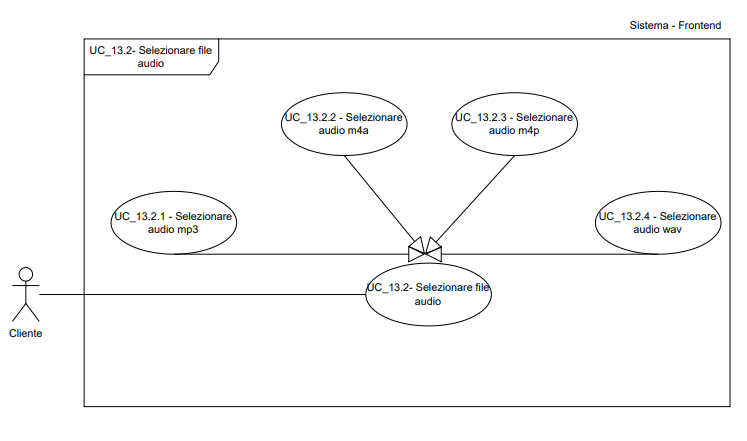
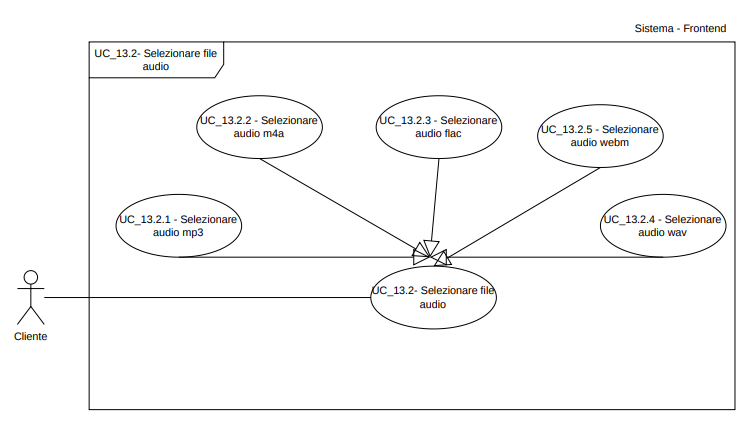
Pull Request Automatica - feature/analisi-requisiti → main (#299)
* Fix

* Fix

* Rimozione file

---------

diff --git a/src/PB/Documenti Esterni/Analisi dei Requisiti/content/uc/UC_13.tex b/src/PB/Documenti Esterni/Analisi dei Requisiti/content/uc/UC_13.tex
@@ -146,7 +146,7 @@ L'UC\_13.2 ha 4 ulteriori specializzazioni come mostrate in figura
         \end{itemize}
 \end{itemize}
 
-\subsubsubsubsection{UC\_13.2.3: Selezionare audio m4p}
+\subsubsubsubsection{UC\_13.2.3: Selezionare audio flac}
 \label{uc_13.2.3}
 
 \begin{itemize}
@@ -154,16 +154,16 @@ L'UC\_13.2 ha 4 ulteriori specializzazioni come mostrate in figura
     \item \textbf{Scenario principale}:
         \begin{enumerate}
             \item Il Cliente ha premuto il pulsante per selezionare un file dal dispositivo
-            \item Il Cliente seleziona un file con estensione .m4p
+            \item Il Cliente seleziona un file con estensione .flac
         \end{enumerate}
     \item \textbf{Precondizioni}:
         \begin{itemize}
-            \item Il formato .m4p è supportato dal sistema
+            \item Il formato .flac è supportato dal sistema
             \item Il Cliente si trova nella sezione di inserimento ordine tramite file
         \end{itemize}
     \item \textbf{Postcondizioni}: 
         \begin{itemize}
-            \item Il file .m4p è stato correttamente selezionato e caricato nel sistema
+            \item Il file .flac è stato correttamente selezionato e caricato nel sistema
         \end{itemize}
 \end{itemize}
 
@@ -186,4 +186,25 @@ L'UC\_13.2 ha 4 ulteriori specializzazioni come mostrate in figura
         \begin{itemize}
             \item Il file .wav è stato correttamente selezionato e caricato nel sistema
         \end{itemize}
+\end{itemize}
+
+\subsubsubsubsection{UC\_13.2.5: Selezionare audio webm}
+\label{uc_13.2.5}
+
+\begin{itemize}
+	\item \textbf{Attore$^G$ Principale}: Cliente
+	\item \textbf{Scenario principale}:
+	\begin{enumerate}
+		\item Il Cliente ha premuto il pulsante per selezionare un file dal dispositivo
+		\item Il Cliente seleziona un file con estensione .webm
+	\end{enumerate}
+	\item \textbf{Precondizioni}:
+	\begin{itemize}
+		\item Il formato .webm è supportato dal sistema
+		\item Il Cliente si trova nella sezione di inserimento ordine tramite file
+	\end{itemize}
+	\item \textbf{Postcondizioni}: 
+	\begin{itemize}
+		\item Il file .webm è stato correttamente selezionato e caricato nel sistema
+	\end{itemize}
 \end{itemize}

diff --git a/src/PB/Documenti Esterni/Analisi dei Requisiti/content/riepilogo.tex b/src/PB/Documenti Esterni/Analisi dei Requisiti/content/riepilogo.tex
@@ -107,9 +107,11 @@
     \hline
     \hyperref[uc_13.2.2]{UC\_13.2.2} & \hyperlink{rf-ob_51}{RF-OB\_51} \\
     \hline
-    \hyperref[uc_13.2.3]{UC\_13.2.3} & \hyperlink{rf-ob_52}{RF-OB\_52}, \hyperlink{rf-op_15}{RF-OP\_15} \\
+    \hyperref[uc_13.2.3]{UC\_13.2.3} & \hyperlink{rf-ob_52}{RF-OB\_52} \\
     \hline
     \hyperref[uc_13.2.4]{UC\_13.2.4} & \hyperlink{rf-ob_53}{RF-OB\_53} \\
+    \hline
+    \hyperref[uc_13.2.5]{UC\_13.2.5} & \hyperlink{rf-op_15}{RF-OP\_15} \\
     \hline
     \hyperref[uc_14]{UC\_14} & \hyperlink{rf-ob_47}{RF-OB\_47}, \hyperlink{rf-ob_49}{RF-OB\_49}, \hyperlink{rf-ob_54}{RF-OB\_54} \\
     \hline

diff --git a/src/PB/Documenti Esterni/Analisi dei Requisiti/content/funzionali.tex b/src/PB/Documenti Esterni/Analisi dei Requisiti/content/funzionali.tex
@@ -573,7 +573,7 @@
 	\hline
 	RF-OP\_14 \hypertarget{rf-op_14} & L'Admin deve poter visualizzare la notifica di errore creazione utente & \hyperref[uc_33]{UC\_33}\\
 	\hline
-	RF-OP\_15 \hypertarget{rf-op_15} & Il Cliente deve poter selezionare file audio in formato .webm & \hyperref[uc_13.2.3]{UC\_13.2.3} \\
+	RF-OP\_15 \hypertarget{rf-op_15} & Il Cliente deve poter selezionare file audio in formato .webm & \hyperref[uc_13.2.5]{UC\_13.2.5} \\
 	\hline
 	\multicolumn{3}{c}{} \\
 	\caption{Requisiti Funzionali opzionali}\hypertarget{tab:funzionali_opzionali}\\
